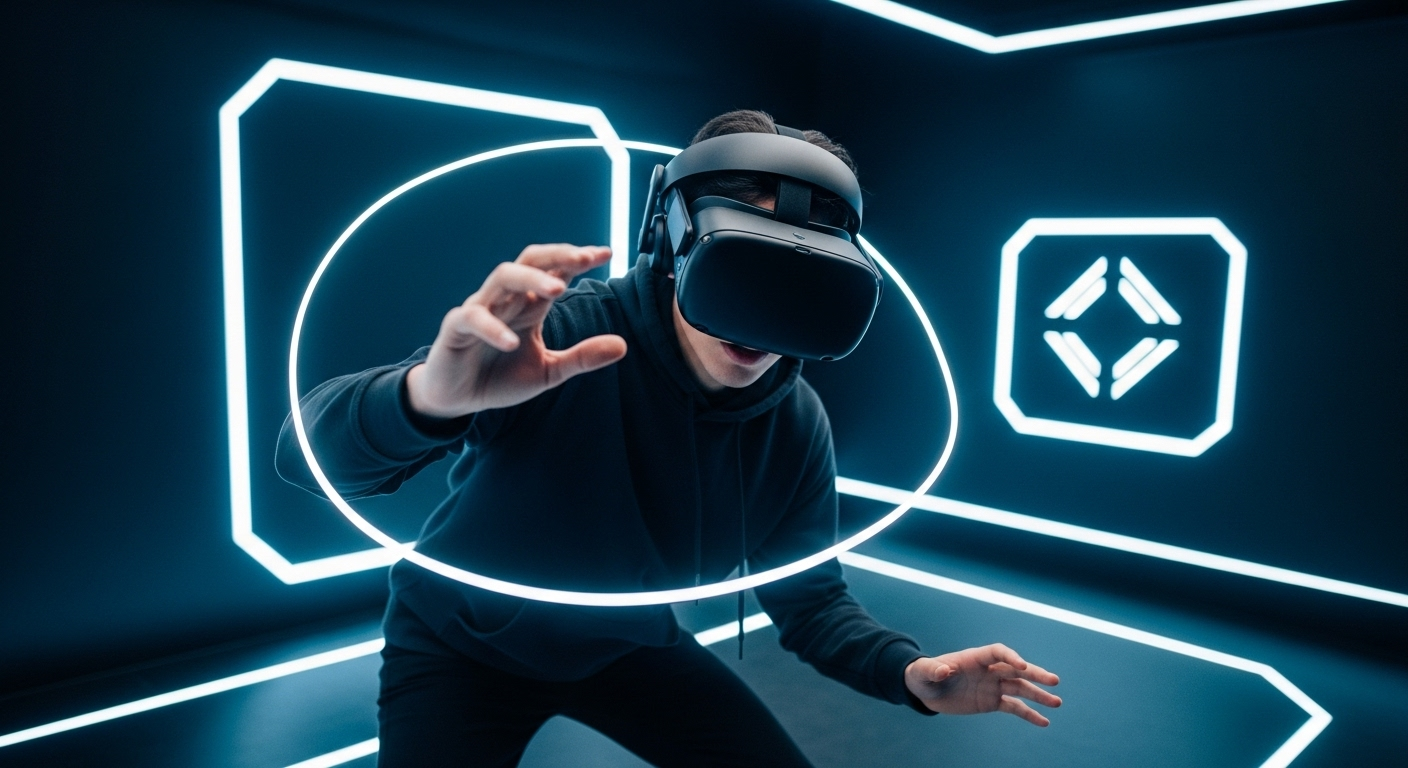
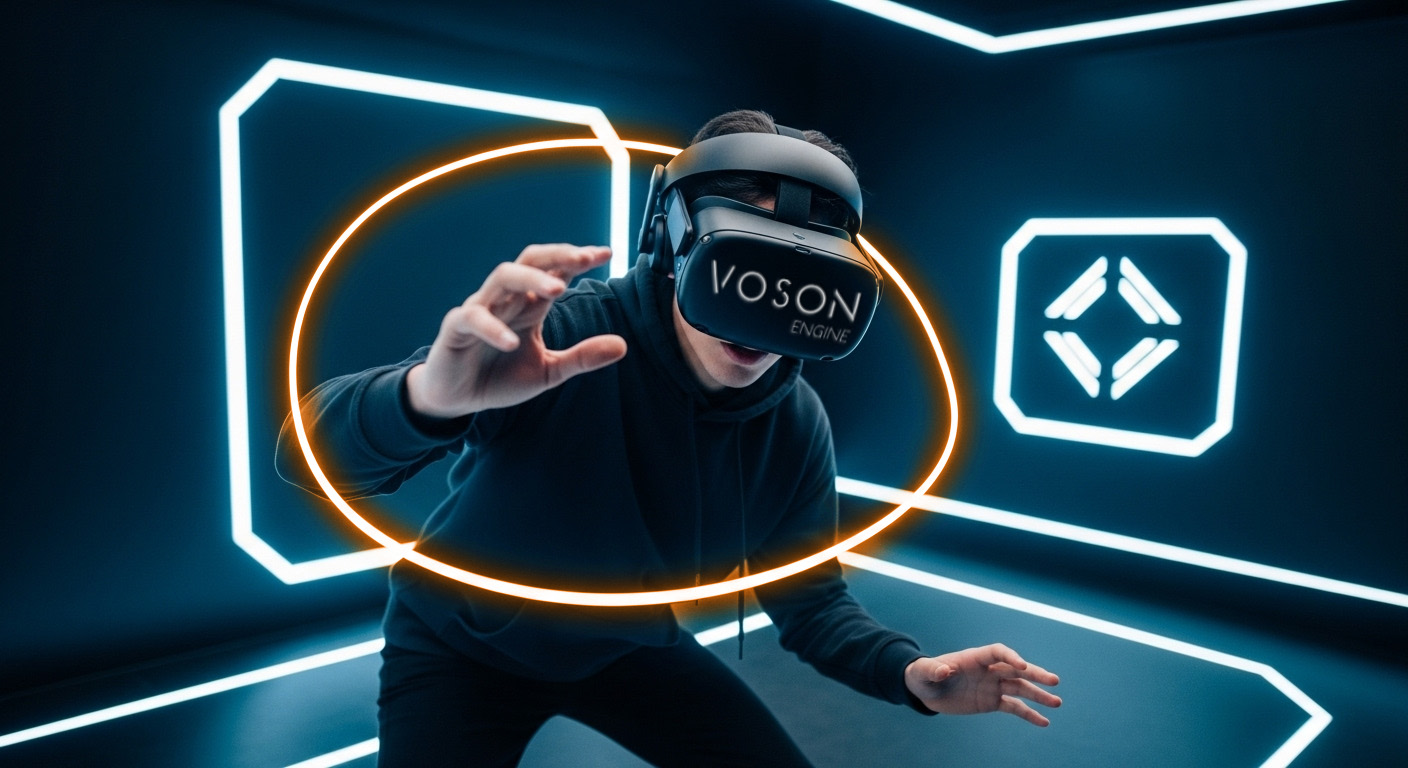
Change image intro

Changed region(s): [[0.1875, 0.1562, 0.7188, 0.8125]]

diff --git a/en/index.html b/en/index.html
@@ -79,7 +79,7 @@
         <!-- INTRO SECTION -->
         <section id="intro-section" style="position: relative; width: 100vw; height: 100vh; overflow: hidden; background: #000;">
             <img id="intro-bg" src="../assets/images/intro.jpg" alt="Intro Voson" style="position: absolute; width: 100vw; height: 100vh; object-fit: cover; top: 0; left: 0; z-index: 1; opacity: 1; transition: none;">
-            <img id="intro-logo" src="../assets/images/logo.png" alt="Logo Voson" style="position: absolute; top: 50%; left: 50%; transform: translate(-50%, -50%); max-width: 160vw; width: 1920px; min-width: 160px; z-index: 2; opacity: 0; transition: opacity 2.5s cubic-bezier(0.4,0,0.2,1); will-change: transform, opacity;">
+            <!-- <img id="intro-logo" src="../assets/images/logo.png" alt="Logo Voson" style="position: absolute; top: 50%; left: 50%; transform: translate(-50%, -50%); max-width: 160vw; width: 1920px; min-width: 160px; z-index: 2; opacity: 0; transition: opacity 2.5s cubic-bezier(0.4,0,0.2,1); will-change: transform, opacity;"> -->
             <div class="scroll-indicator" style="position: fixed; left: 50%; transform: translateX(-50%); bottom: 32px; z-index: 10;">
                 <svg width="34" height="14" viewBox="0 0 34 14" fill="none" xmlns="http://www.w3.org/2000/svg" aria-hidden="true" focusable="false">
                     <path fill-rule="evenodd" clip-rule="evenodd" d="M33.5609 1.54346C34.0381 2.5875 33.6881 3.87821 32.7791 4.42633L17.0387 13.9181L1.48663 4.42115C0.580153 3.86761 0.235986 2.57483 0.717909 1.53365C1.19983 0.492464 2.32535 0.097152 3.23182 0.650692L17.0497 9.08858L31.051 0.64551C31.96 0.0973872 33.0837 0.499411 33.5609 1.54346Z" fill="currentColor"></path>
